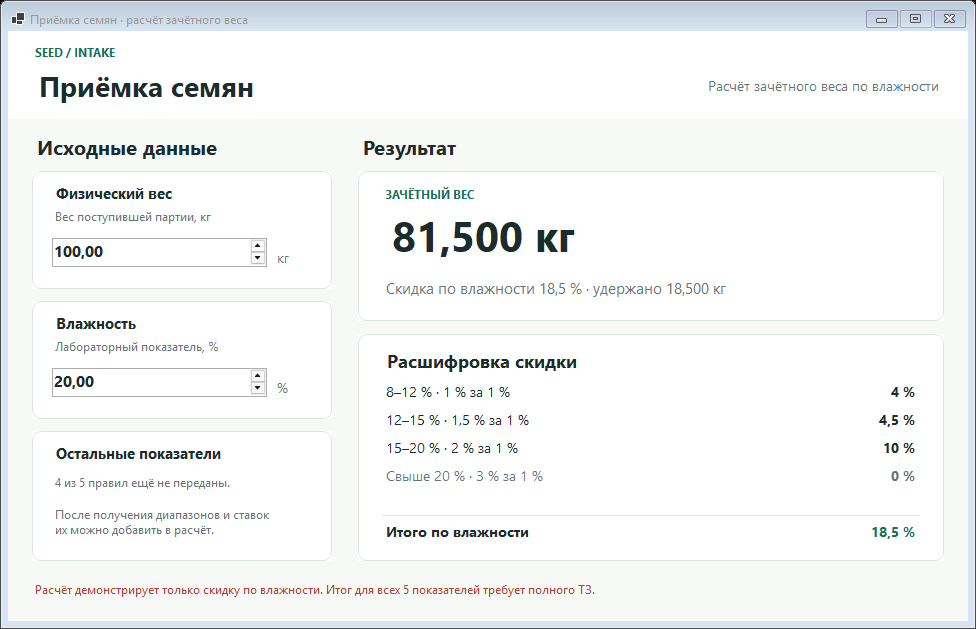
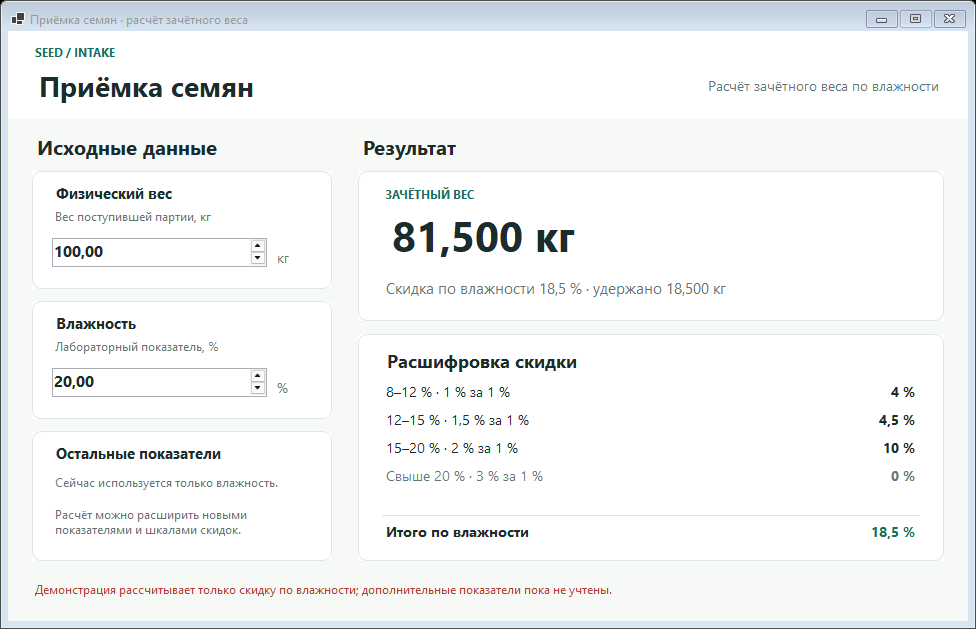
Make calculator demo fully self-contained

Changed region(s): [[0.0307, 0.9364, 0.6148, 0.9666], [0.0615, 0.8156, 0.2766, 0.876], [0.0615, 0.7552, 0.2766, 0.7854]]

diff --git a/MainForm.cs b/MainForm.cs
@@ -56,8 +56,8 @@ public sealed class MainForm : Form
         var pendingCard = new Card { Bounds = new Rectangle(24, 400, 300, 130) };
         Controls.Add(pendingCard);
         pendingCard.Controls.Add(TextLabel("Остальные показатели", 20, 10, 260, 25, 11, Ink, FontStyle.Bold));
-        pendingCard.Controls.Add(TextLabel("4 из 5 правил ещё не переданы.", 20, 41, 260, 21, 9, Muted));
-        pendingCard.Controls.Add(TextLabel("После получения диапазонов и ставок\nих можно добавить в расчёт.", 20, 67, 260, 48, 9, Muted));
+        pendingCard.Controls.Add(TextLabel("Сейчас используется только влажность.", 20, 41, 260, 21, 9, Muted));
+        pendingCard.Controls.Add(TextLabel("Расчёт можно расширить новыми\nпоказателями и шкалами скидок.", 20, 67, 260, 48, 9, Muted));
 
         Controls.Add(TextLabel("Результат", 350, 100, 300, 31, 15, Ink, FontStyle.Bold));
         var resultCard = new Card { Bounds = new Rectangle(350, 140, 586, 150) };
@@ -89,7 +89,7 @@ public sealed class MainForm : Form
             var accepted = MoistureCalculator.CalculateAcceptedWeight(weightInput.Value, discount);
             acceptedValue.Text = $"{accepted:N3} кг";
             discountValue.Text = $"Скидка по влажности {discount:0.##} % · удержано {weightInput.Value - accepted:N3} кг";
-            errorLabel.Text = "Расчёт демонстрирует только скидку по влажности. Итог для всех 5 показателей требует полного ТЗ.";
+            errorLabel.Text = "Демонстрация рассчитывает только скидку по влажности; дополнительные показатели пока не учтены.";
             RenderBreakdown(moistureInput.Value, discount);
         }
         catch (ArgumentOutOfRangeException)

diff --git a/README.md b/README.md
@@ -24,4 +24,4 @@ dotnet run --project .\SeedIntakeCalculator.csproj -- --self-test
 
 ## Статус
 
-Это прототип по одному из пяти лабораторных показателей. Для полного расчёта нужны правила остальных четырёх, способ объединения скидок, правила округления и поведение при влажности ниже 4 %. Пока этих данных нет, приложение не выдаёт частичный результат за полный расчёт партии.
+Это прототип расчёта по влажности. Его можно расширить другими лабораторными показателями, объединением скидок, настройкой округления и хранением результатов. Интерфейс явно показывает, что сейчас дополнительные показатели не учитываются.
